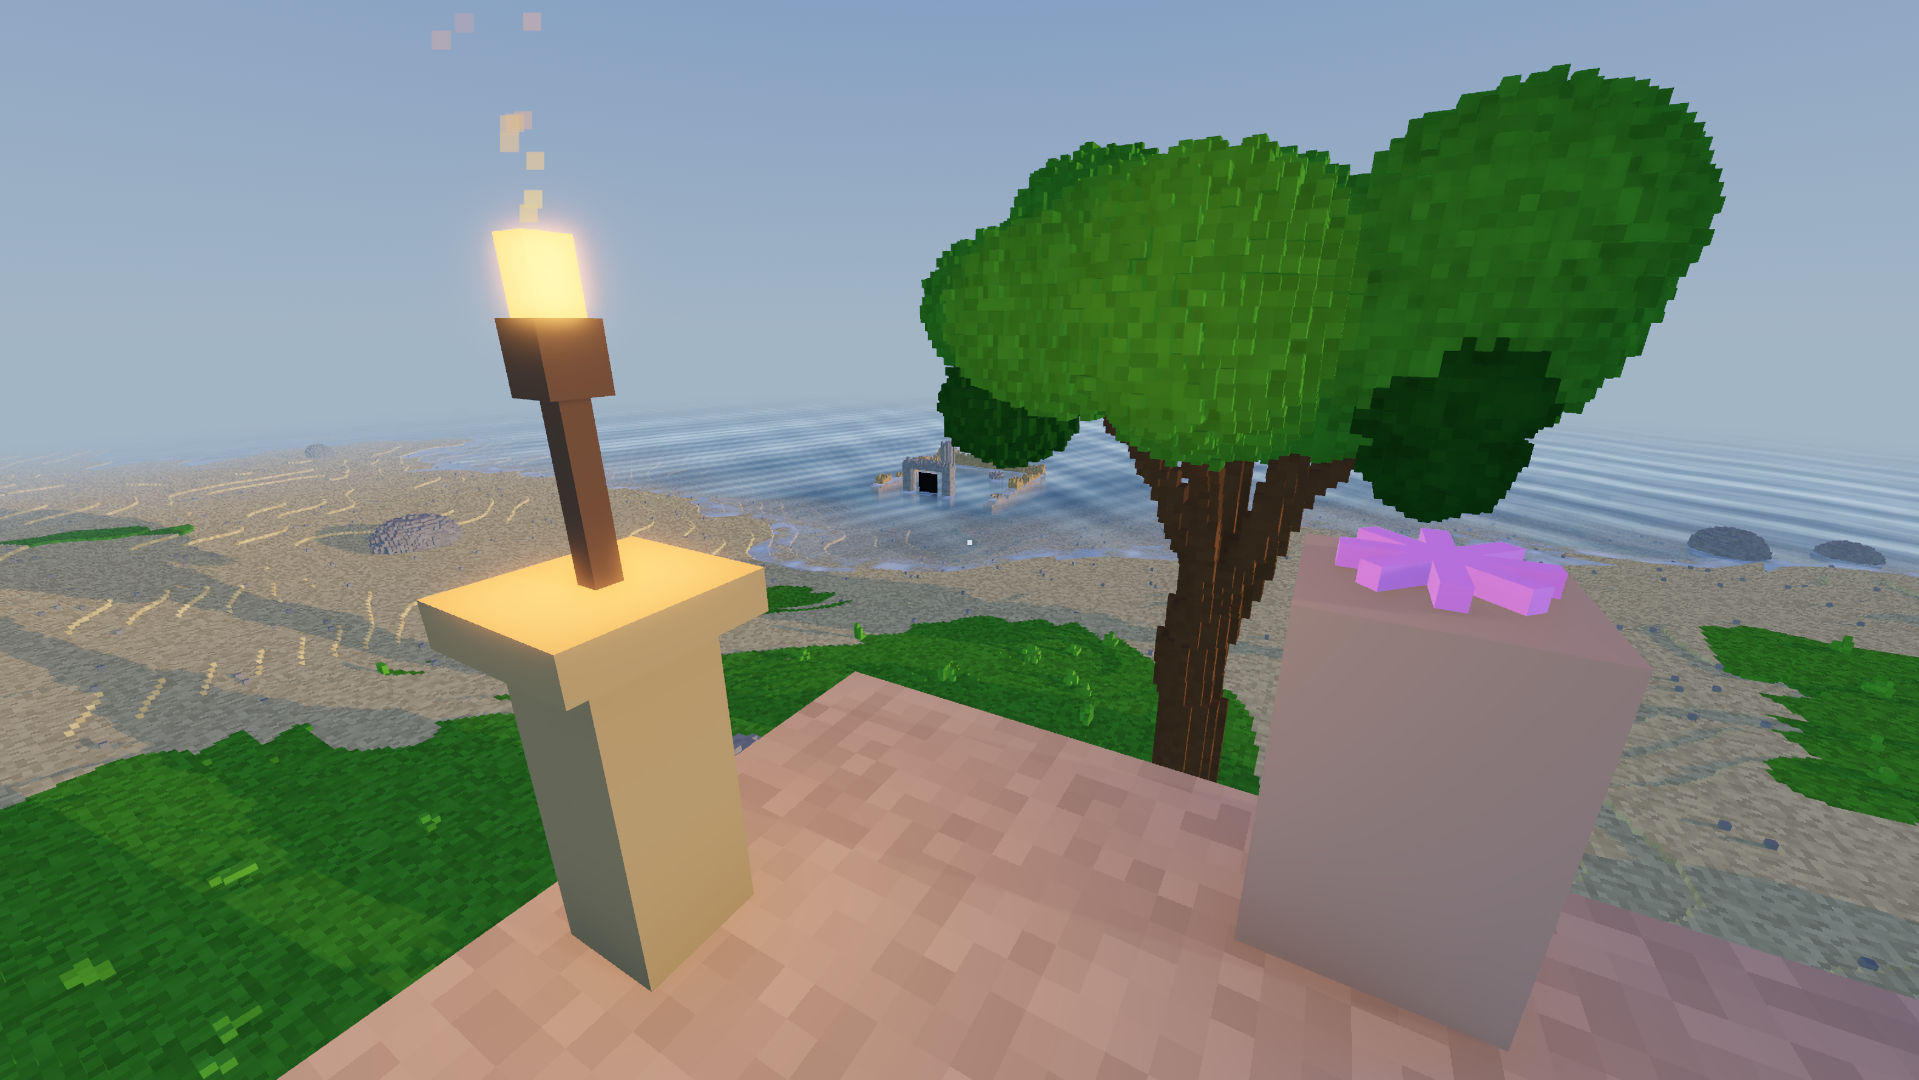
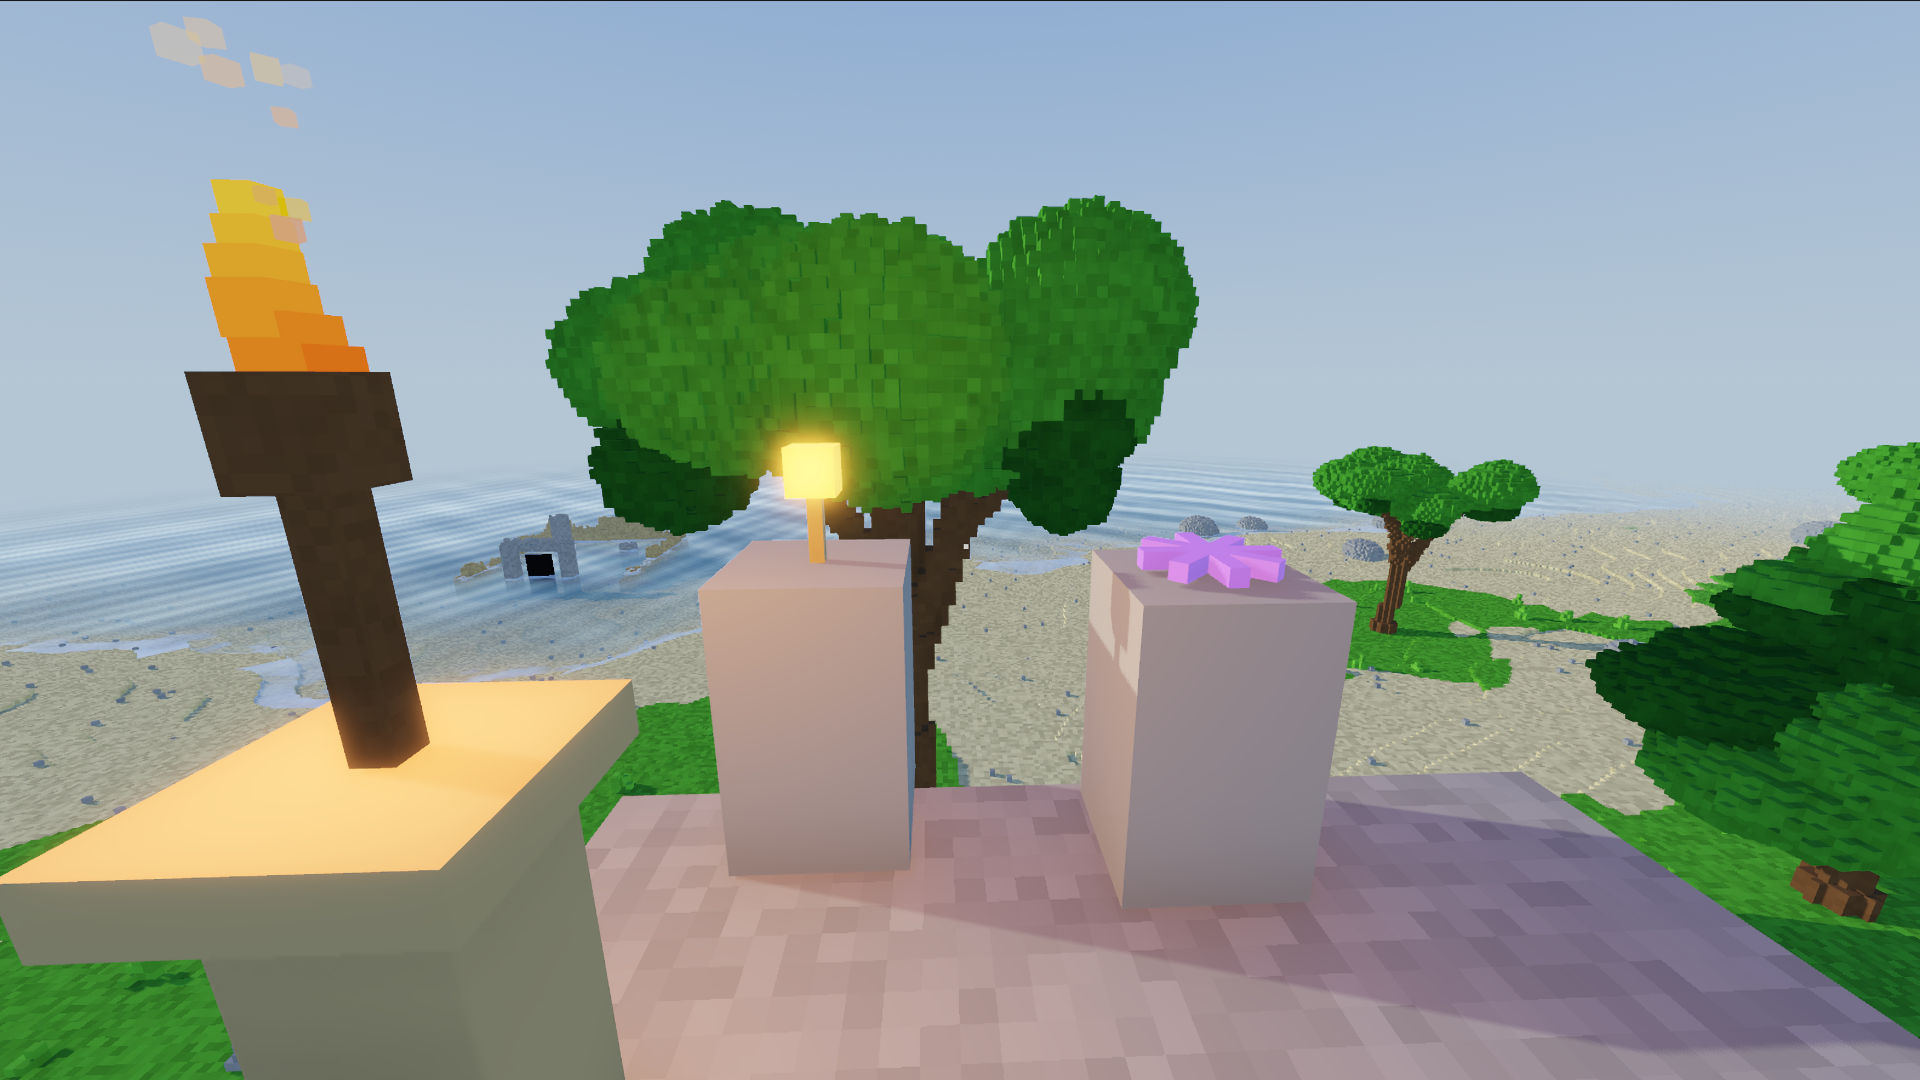
docs: update README.md

diff --git a/README.md b/README.md
@@ -5,16 +5,17 @@ A small first-person exploration game built in [Godot 4.7](https://godotengine.o
 ## Screenshots
 
 ![The drowned ruin at low tide](screenshots/platform.jpg)
-![Grassland at night](screenshots/night.jpg)
+![The drowned ruin at high tide (dawn)](screenshots/platform-flood-dawn.jpg)
+![Mushrooms at night](screenshots/night.jpg)
 
 ## Features
 
 - **One continuous island, generated from a seed.** A heightmap of 10 cm voxel columns rises out of the sea and blends between grassland, desert, beach and mountain biomes with no visible seams; the same terrain continues under the water as the sea bed.
 - **Living surface detail.** Wind-wobbled grass, trees, glowing fantasy mushrooms that light their surroundings, mist that thickens with distance, and a day/night cycle with a moving sun and moon.
-- **Tides as a game mechanic.** The sea rises and falls between authored notches — low, mean, and flood — reshaping which parts of the island are dry, and puzzles are built around what each tide level opens up or seals off.
-- **A drowned ruin and the vault beneath it.** Explore an authored structure sitting in the tideline, then descend into a five-chamber vault behind a stone gate. Carry a burning torch — flickering light, drifting embers — to a pedestal to free a seized tide lock, and use it to light the braziers deeper in.
+- **Tides and time as game mechanics.** The sea rises and falls between authored notches — low, mean, and flood — reshaping which parts of the island are dry. The sun and moon step between dawn, noon, dusk and midnight the same way, turned by a physical dial. Both the tide lock and the sun dial are puzzles built around what each level or time opens up or seals off.
+- **A drowned ruin and the vault beneath it.** Explore an authored structure sitting in the tideline, then descend into a five-chamber vault behind a stone gate. Carry a burning torch — flickering light, drifting embers — to a pedestal to free a seized tide lock and sun dial, and use it to light the braziers deeper in.
 - **Carryables, pedestals and interiors.** Pick things up, set them down, and step through doorways into rooms that hang below the terrain independent of the outdoor world.
-- **Save and load.** The island itself is never saved (it's a pure function of the seed) — only what changed: where you are, what the tide is doing, and what's sitting in which socket.
+- **Save and load.** The island itself is never saved (it's a pure function of the seed) — only what changed: where you are, what the tide and time of day are doing, and what's sitting in which socket.
 - **Seated VR support.** Built on the [Godot XR Development Kit](https://github.com/GodotVR/godot-xr-tools) with OpenXR. Smooth locomotion, snap turning, controller jump, and a debug teleport back to the ruins. Runs as an ordinary desktop game when no headset is present.
 
 ## Controls
@@ -36,6 +37,8 @@ A small first-person exploration game built in [Godot 4.7](https://godotengine.o
 | `T` | Jump to the ruins (debug) |
 | `Page Up` / `Page Down` | Nudge the tide by a metre (debug) |
 | `Home` | Reset the tide (debug) |
+| `[` / `]` | Nudge the sun/moon time by 30 minutes (debug) |
+| `End` | Reset the sun/moon time (debug) |
 | `H` | Toggle the debug info overlay |
 
 ### VR (OpenXR headset)
